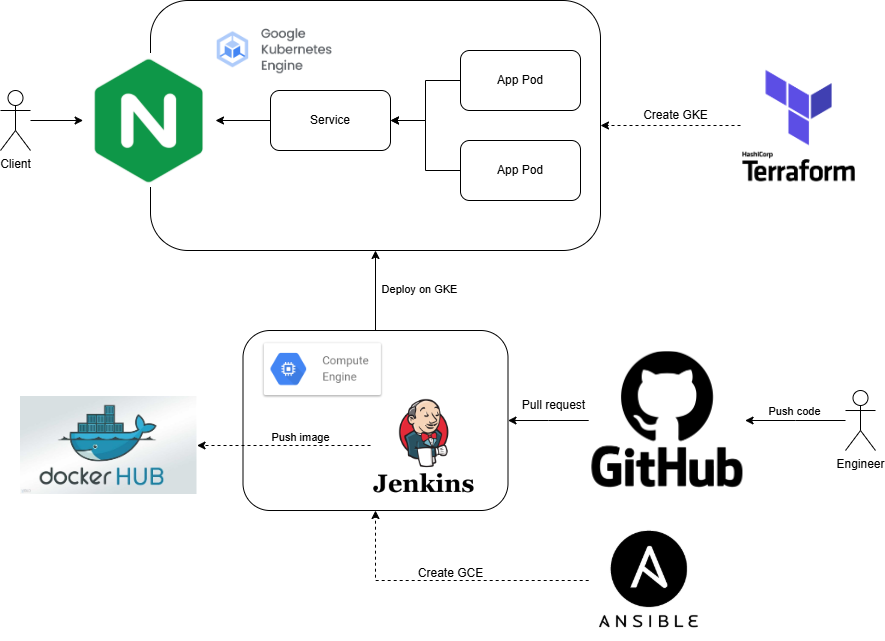
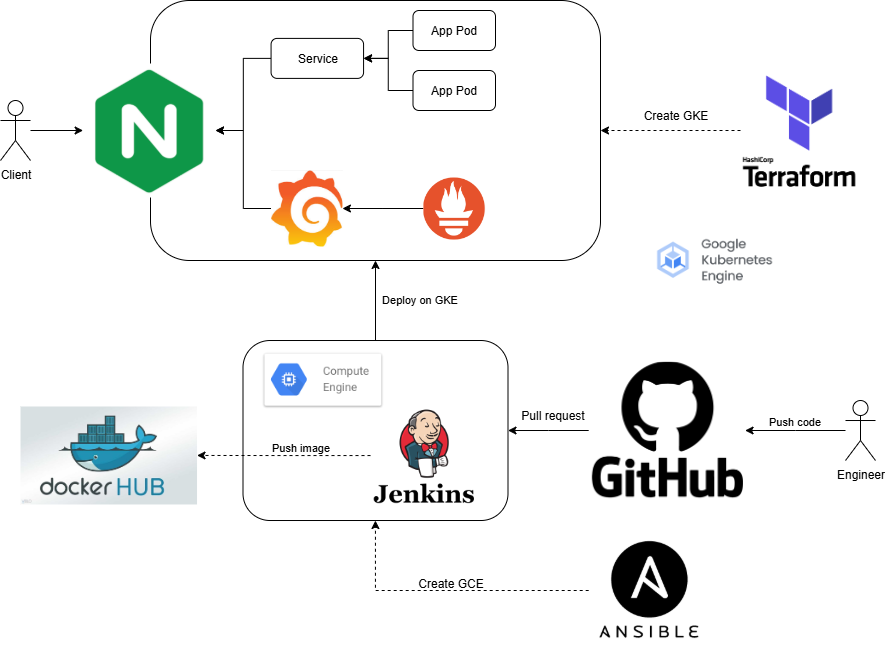
update readme for monitoring

diff --git a/README.md b/README.md
@@ -34,7 +34,8 @@ demo_deployment/
 │   ├── requirements.txt      # Python dependencies
 │   └── Dockerfile           # Container configuration
 ├── 📁 cicd/                  # CI/CD configuration
-│   └── Jenkinsfile          # Jenkins pipeline
+│   ├── Jenkinsfile          # Jenkins pipeline
+│   └── jenkins-admin-token.yaml  # GKE admin token for CI/CD
 ├── 📁 helm_charts/           # Kubernetes Helm charts
 │   ├── model-deployment/    # OCR app deployment
 │   └── nginx-ingress/       # Ingress controller
@@ -55,6 +56,177 @@ demo_deployment/
 - [Ansible](https://docs.ansible.com/ansible/latest/installation_guide/intro_installation.html)
 - [Jenkins](https://www.jenkins.io/doc/book/installing/) (for CI/CD)
 - [kubectl](https://kubernetes.io/docs/tasks/tools/) configured
+- [Google Cloud SDK](https://cloud.google.com/sdk/docs/install) (for GKE access)
+
+## 🔐 CI/CD Setup Instructions
+
+### 1. DockerHub Credentials Setup
+
+#### Step 1: Create DockerHub Access Token
+1. Log in to [DockerHub](https://hub.docker.com/)
+2. Go to **Account Settings** → **Security**
+3. Click **New Access Token**
+4. Give it a name (e.g., "Jenkins CI/CD")
+5. Copy the generated token (you won't see it again)
+
+#### Step 2: Add DockerHub Credentials to Jenkins
+1. Open Jenkins dashboard
+2. Go to **Manage Jenkins** → **Manage Credentials**
+3. Click **System** → **Global credentials** → **Add Credentials**
+4. Configure as follows:
+   - **Kind**: Username with password
+   - **Scope**: Global
+   - **Username**: Your DockerHub username
+   - **Password**: Your DockerHub access token (not your account password)
+   - **ID**: `dockerhub-credentials`
+   - **Description**: DockerHub credentials for CI/CD
+
+#### Step 3: Update Jenkinsfile
+The Jenkinsfile should reference the credentials:
+```groovy
+withCredentials([usernamePassword(credentialsId: 'dockerhub-credentials', usernameVariable: 'DOCKER_USERNAME', passwordVariable: 'DOCKER_PASSWORD')]) {
+    sh 'docker login -u $DOCKER_USERNAME -p $DOCKER_PASSWORD'
+}
+```
+
+### 2. GKE Admin Key Setup for CI/CD
+
+#### Step 1: Create Service Account for Jenkins
+```bash
+# Set your project ID
+export PROJECT_ID="your-gcp-project-id"
+export CLUSTER_NAME="your-gke-cluster-name"
+export ZONE="your-gke-zone"
+
+# Create service account
+gcloud iam service-accounts create jenkins-gke-sa \
+    --display-name="Jenkins GKE Service Account" \
+    --description="Service account for Jenkins to access GKE"
+
+# Get the service account email
+export SA_EMAIL="jenkins-gke-sa@${PROJECT_ID}.iam.gserviceaccount.com"
+```
+
+#### Step 2: Assign Required Roles
+```bash
+# Grant Kubernetes Admin role
+gcloud projects add-iam-policy-binding ${PROJECT_ID} \
+    --member="serviceAccount:${SA_EMAIL}" \
+    --role="roles/container.admin"
+
+# Grant Storage Admin role (for pulling images)
+gcloud projects add-iam-policy-binding ${PROJECT_ID} \
+    --member="serviceAccount:${SA_EMAIL}" \
+    --role="roles/storage.admin"
+
+# Grant Compute Admin role (if needed for node management)
+gcloud projects add-iam-policy-binding ${PROJECT_ID} \
+    --member="serviceAccount:${SA_EMAIL}" \
+    --role="roles/compute.admin"
+```
+
+#### Step 3: Create and Download Service Account Key
+```bash
+# Create service account key
+gcloud iam service-accounts keys create jenkins-gke-key.json \
+    --iam-account=${SA_EMAIL}
+
+# The key file will be downloaded to your current directory
+```
+
+#### Step 4: Add GKE Credentials to Jenkins
+1. In Jenkins, go to **Manage Jenkins** → **Manage Credentials**
+2. Click **System** → **Global credentials** → **Add Credentials**
+3. Configure as follows:
+   - **Kind**: Secret file
+   - **Scope**: Global
+   - **File**: Upload the `jenkins-gke-key.json` file
+   - **ID**: `gke-service-account-key`
+   - **Description**: GKE service account key for CI/CD
+
+#### Step 5: Update Jenkinsfile for GKE Access
+```groovy
+pipeline {
+    agent any
+    
+    environment {
+        PROJECT_ID = 'your-gcp-project-id'
+        CLUSTER_NAME = 'your-gke-cluster-name'
+        ZONE = 'your-gke-zone'
+    }
+    
+    stages {
+        stage('Setup GKE Access') {
+            steps {
+                withCredentials([file(credentialsId: 'gke-service-account-key', variable: 'GOOGLE_APPLICATION_CREDENTIALS')]) {
+                    sh '''
+                        gcloud auth activate-service-account --key-file=$GOOGLE_APPLICATION_CREDENTIALS
+                        gcloud config set project ${PROJECT_ID}
+                        gcloud container clusters get-credentials ${CLUSTER_NAME} --zone=${ZONE}
+                    '''
+                }
+            }
+        }
+        
+        stage('Build and Deploy') {
+            steps {
+                // Your existing build and deploy steps
+            }
+        }
+    }
+}
+```
+
+### 3. Host Configuration for GKE Access
+
+<div align="center">
+
+![GKE Host Configuration](images/host.png)
+
+*GKE cluster host configuration and access setup*
+
+</div>
+
+#### Option 1: Using gcloud CLI (Recommended)
+```bash
+# Install Google Cloud SDK if not already installed
+# https://cloud.google.com/sdk/docs/install
+
+# Authenticate with your Google account
+gcloud auth login
+
+# Set your project
+gcloud config set project YOUR_PROJECT_ID
+
+# Get credentials for your GKE cluster
+gcloud container clusters get-credentials YOUR_CLUSTER_NAME --zone=YOUR_ZONE
+
+# Verify connection
+kubectl cluster-info
+```
+
+#### Option 2: Using Service Account Key
+```bash
+# Set the service account key path
+export GOOGLE_APPLICATION_CREDENTIALS="/path/to/your/service-account-key.json"
+
+# Get cluster credentials
+gcloud container clusters get-credentials YOUR_CLUSTER_NAME --zone=YOUR_ZONE
+
+# Verify connection
+kubectl cluster-info
+```
+
+#### Option 3: Direct kubeconfig (for CI/CD)
+```bash
+# Generate kubeconfig for service account
+gcloud container clusters get-credentials YOUR_CLUSTER_NAME \
+    --zone=YOUR_ZONE \
+    --project=YOUR_PROJECT_ID
+
+# Copy kubeconfig to Jenkins
+cp ~/.kube/config /path/to/jenkins/kubeconfig
+```
 
 ## 🚀 Quick Start
 
@@ -92,6 +264,14 @@ curl -X POST "http://localhost:8080/ocr/" \
   "extracted_text": "Hello World! This is sample text extracted from the image."
 }
 ```
+
+<div align="center">
+
+![API Result Example](images/api_result.png)
+
+*Example of OCR API response showing extracted text from an image*
+
+</div>
 
 ### 3. Kubernetes Deployment
 
@@ -153,17 +333,27 @@ The project includes comprehensive Helm charts for:
 
 ### CI/CD Pipeline
 
+<div align="center">
+
+![CI/CD Pipeline](images/cicd.png)
+
+*Jenkins CI/CD pipeline workflow and stages*
+
+</div>
+
 The Jenkins pipeline (`cicd/Jenkinsfile`) includes:
 
-1. **Build Stage**: Docker image building and pushing to registry
-2. **Deploy Stage**: Helm-based deployment to Kubernetes
-3. **Test Stage**: Automated testing (placeholder for future expansion)
+1. **Setup Stage**: Configure GKE access and DockerHub credentials
+2. **Build Stage**: Docker image building and pushing to registry
+3. **Deploy Stage**: Helm-based deployment to Kubernetes
+4. **Test Stage**: Automated testing (placeholder for future expansion)
 
 **Pipeline Features:**
 - Automated image versioning
 - Multi-environment deployment support
 - Build artifact retention
 - Timestamp logging
+- Secure credential management
 
 ### Infrastructure as Code
 
@@ -197,7 +387,24 @@ Customize deployments by modifying the `values.yaml` files in each Helm chart:
 - Environment variables
 - Ingress configurations
 
-## 🧪 Testing
+### CI/CD Environment Variables
+
+Set these in Jenkins:
+- `DOCKERHUB_USERNAME`: Your DockerHub username
+- `DOCKERHUB_PASSWORD`: Your DockerHub access token
+- `GCP_PROJECT_ID`: Your Google Cloud project ID
+- `GKE_CLUSTER_NAME`: Your GKE cluster name
+- `GKE_ZONE`: Your GKE cluster zone
+
+## 🧪 Testing & Monitoring
+
+<div align="center">
+
+![Monitoring Dashboard](images/monitor.png)
+
+*Kubernetes monitoring dashboard showing cluster metrics and application performance*
+
+</div>
 
 ### Manual Testing
 
@@ -224,6 +431,14 @@ The CI/CD pipeline includes a test stage that can be extended with:
 - Load testing for performance validation
 - Security scanning
 
+### Monitoring & Observability
+
+The project includes comprehensive monitoring capabilities:
+- **Prometheus**: Metrics collection and alerting
+- **Grafana**: Visualization dashboards
+- **Kubernetes Metrics**: Cluster and pod monitoring
+- **Application Metrics**: Custom OCR API metrics
+
 ## 🔒 Security Considerations
 
 - Container images are scanned for vulnerabilities
@@ -231,6 +446,8 @@ The CI/CD pipeline includes a test stage that can be extended with:
 - Network policies restrict pod-to-pod communication
 - RBAC is configured for proper access control
 - Ingress includes rate limiting and SSL termination
+- Service account keys are stored securely in Jenkins credentials
+- DockerHub access tokens are used instead of passwords
 
 ## 🚀 Scaling
 
@@ -255,6 +472,29 @@ helm upgrade model-deployment helm_charts/model-deployment --set replicas=5 -n m
    - Ensure Docker Hub credentials are configured in Jenkins
    - Check that the app directory is properly cloned in Jenkins workspace
    - Verify Docker build locally before running in Jenkins
+   - Ensure GKE service account has proper permissions
+
+### GKE Access Issues
+
+1. **Authentication failed**:
+   ```bash
+   # Re-authenticate with gcloud
+   gcloud auth login
+   gcloud config set project YOUR_PROJECT_ID
+   gcloud container clusters get-credentials YOUR_CLUSTER_NAME --zone=YOUR_ZONE
+   ```
+
+2. **Permission denied**:
+   ```bash
+   # Check your current permissions
+   gcloud projects get-iam-policy YOUR_PROJECT_ID --flatten="bindings[].members" --format="table(bindings.role)" --filter="bindings.members:user:YOUR_EMAIL"
+   ```
+
+3. **Cluster not found**:
+   ```bash
+   # List available clusters
+   gcloud container clusters list --project=YOUR_PROJECT_ID
+   ```
 
 ### Debug Commands
 
@@ -273,6 +513,12 @@ kubectl get ingress -n model-serving
 
 # Check Helm releases
 helm list -n model-serving
+
+# Check GKE cluster info
+kubectl cluster-info
+
+# Check current context
+kubectl config current-context
 ```
 
 ## 🎯 API Documentation
